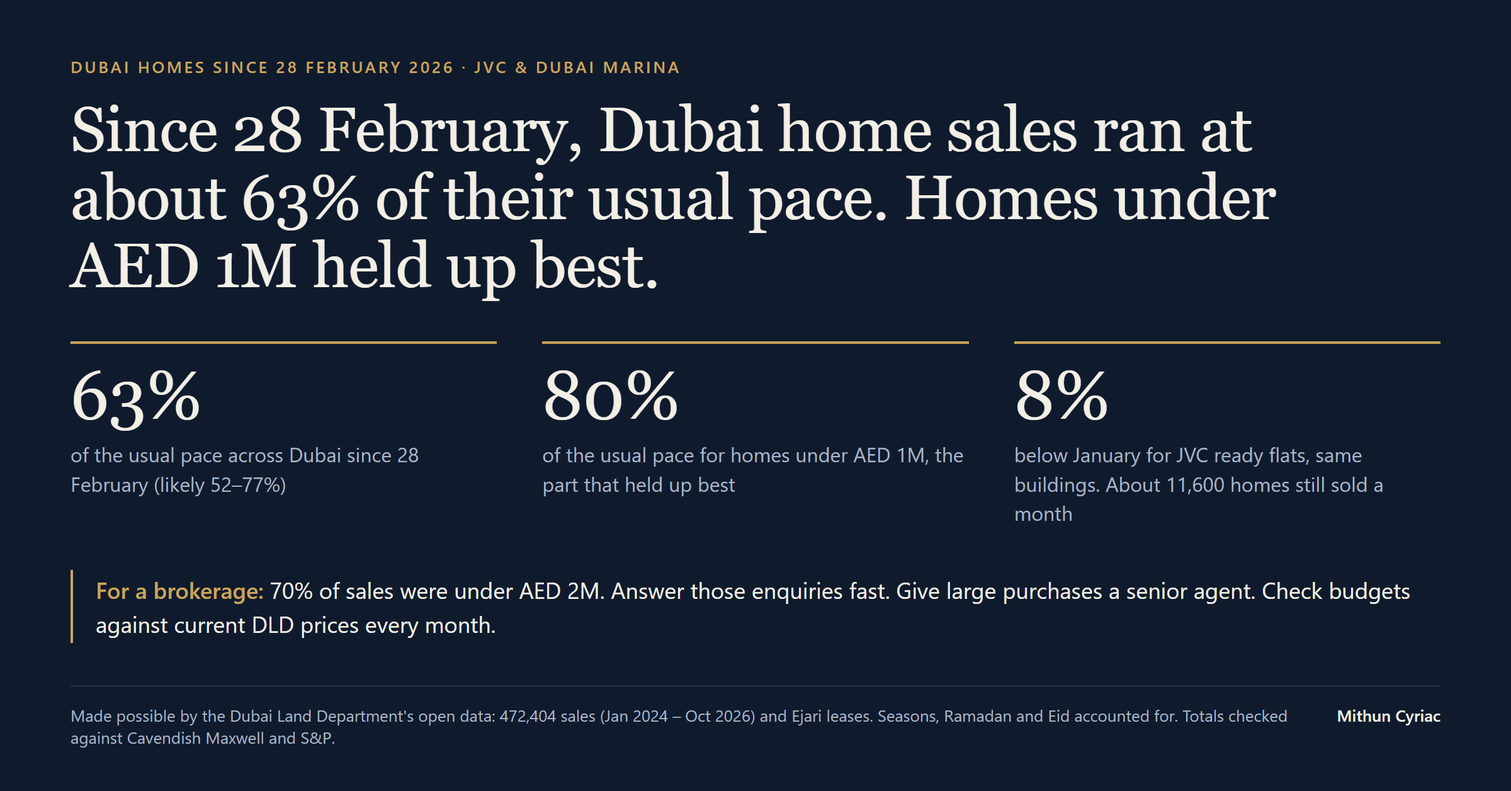
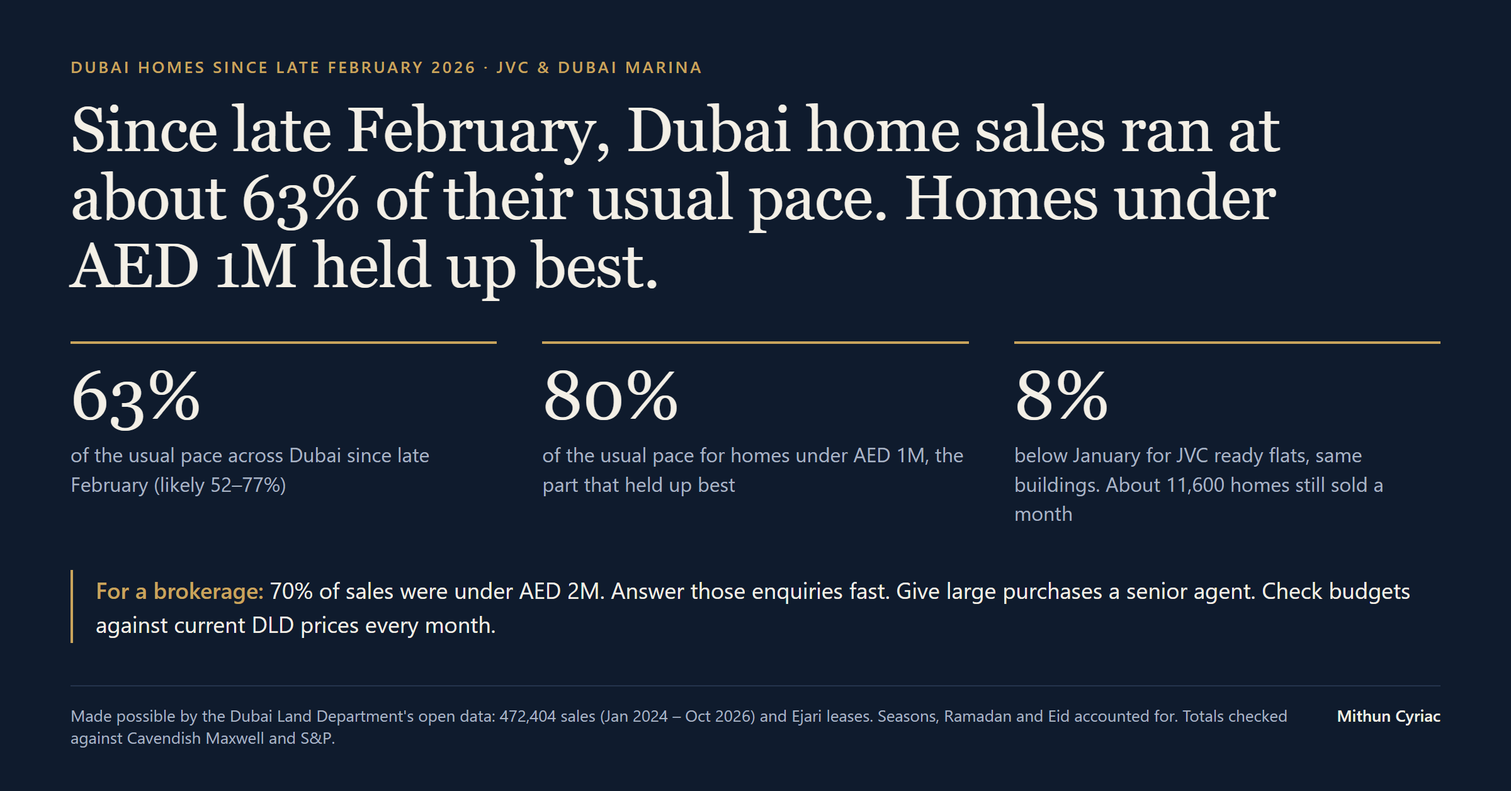
Wording: "since late February" in headlines; exact date kept in method and limits

Changed region(s): [[0.1562, 0.1242, 0.8438, 0.2174], [0.1875, 0.0621, 0.4688, 0.0932], [0.25, 0.5589, 0.2812, 0.59]]

diff --git a/docs/index.html b/docs/index.html
@@ -6,7 +6,7 @@
 <title>Dubai Lead Desk</title>
 <meta name="description" content="Who kept buying homes in Dubai since late February 2026, explained for first-time buyers, from the Dubai Land Department's open data. Data to 19 Oct 2026.">
 <meta property="og:title" content="Dubai Lead Desk: who kept buying homes in Dubai since late February">
-<meta property="og:description" content="Sales ran at about 63% of their usual pace since 28 February, holding best under AED 1M. From the Dubai Land Department's open data, to 19 Oct 2026.">
+<meta property="og:description" content="Sales ran at about 63% of their usual pace since late February, holding best under AED 1M. From the Dubai Land Department's open data, to 19 Oct 2026.">
 <meta property="og:image" content="https://mithuncyriac.github.io/dubai-lead-desk/banner-1-findings.png">
 <meta property="og:url" content="https://mithuncyriac.github.io/dubai-lead-desk/">
 <meta name="twitter:card" content="summary_large_image">
@@ -106,7 +106,7 @@ footer { margin-top: 96px; font-size: 13px; color: var(--ink-3); border-top: 1px
 <main>
 <header class="top"><span><b>Dubai Lead Desk</b> · independent analysis</span><button class="themebtn" id="theme" type="button" aria-label="Switch light or dark theme">Theme</button></header>
 
-<h1>Since 28 February, Dubai home sales have run at about 63% of their usual pace. Homes under AED 1M held up best.</h1>
+<h1>Since late February, Dubai home sales have run at about 63% of their usual pace. Homes under AED 1M held up best.</h1>
 <p class="lede">What the Dubai Land Department's open records show. Written for first-time buyers in JVC and Dubai Marina.</p>
 <span class="stamp">Data to <b>19 Oct 2026</b> · Source: Dubai Land Department open data</span>
 
@@ -133,7 +133,7 @@ footer { margin-top: 96px; font-size: 13px; color: var(--ink-3); border-top: 1px
   <h2>Who kept buying</h2>
   <div class="card">
     <h3>Homes under AED 1M were the steadiest part of the market</h3>
-    <p class="sub">Sales since 28 February as a share of the usual pace, by price. 100% is the usual pace.</p>
+    <p class="sub">Sales since late February as a share of the usual pace, by price. 100% is the usual pace.</p>
     <div class="chart" id="c-bands"></div>
     <p class="means" id="m-bands"></p>
     <details><summary>Show the numbers</summary><div class="tablewrap" id="t-bands"></div></details>
@@ -416,7 +416,7 @@ if (typeof module !== 'undefined') module.exports = DESK;
 
   // ---------- tiles ----------
   $('tiles').innerHTML = [
-    [F.pace.overall_pct + '%', `of the usual pace of home sales across Dubai since 28 February (likely ${F.pace.low_pct}–${F.pace.high_pct}%)`],
+    [F.pace.overall_pct + '%', `of the usual pace of home sales across Dubai since late February (likely ${F.pace.low_pct}–${F.pace.high_pct}%)`],
     [F.pace.under1m_pct + '%', 'of the usual pace for homes under AED 1M, the part of the market that held up best'],
     [int(Math.round(F.market.sales_per_month_mar_sep / 100) * 100), 'homes sold a month on average, March to September 2026'],
     [`${Math.round(Math.abs(F.jvc_ready_price_change_pct))}%`, 'below January for JVC ready flats, comparing the same buildings'],
@@ -555,7 +555,7 @@ if (typeof module !== 'undefined') module.exports = DESK;
     `<b>Renting out still pays.</b> Gross rental yields on JVC flats are about ${Math.round(F.market.jvc_yield_low_pct)}%.`,
   ].map(s => `<li>${s}</li>`).join('');
   $('decision-list').innerHTML = [
-    `${F.market.under2m_share_pct}% of sales since 28 February were under AED 2M. That volume suits a fast, automatic first reply.`,
+    `${F.market.under2m_share_pct}% of sales since late February were under AED 2M. That volume suits a fast, automatic first reply.`,
     `Above AED 5M, sales run at about half their usual pace. Those buyers are fewer and each purchase is large, so a senior agent should take them from the first message.`,
     `Budgets should be checked against current DLD prices, refreshed every month. With older average prices, ${F.tier_changes} of 90 test leads would land in the wrong tier.`,
   ].map(s => `<li>${s}</li>`).join('');
@@ -618,7 +618,7 @@ if (typeof module !== 'undefined') module.exports = DESK;
   const fc = F.forecast;
   $('fc-range').textContent = `${int(fc.forecast_low)} to ${int(fc.forecast_high)}`;
   $('fc-sub').innerHTML = `Expected Dubai home sales in November 2026, written down on ${new Date(F.built).toLocaleDateString('en-GB', { day: 'numeric', month: 'long', year: 'numeric' })}. The usual pattern would expect about ${int(Math.round(fc.expected_without_war / 100) * 100)}. <b>First check on ${new Date(fc.check_on).toLocaleDateString('en-GB', { day: 'numeric', month: 'long' })}</b>, and again on ${new Date(fc.recheck_on).toLocaleDateString('en-GB', { day: 'numeric', month: 'long', year: 'numeric' })}, because DLD can still add late registrations.`;
-  $('fc-why').innerHTML = `How it was made: the low end assumes the pace of recent weeks continues (${Math.round(100 + fc.recent_gap_pct)}% of usual). The high end assumes the average pace since 28 February (${Math.round(100 + fc.whole_period_gap_pct)}%). If the real number lands outside this range, the model needs another look. Archived on 2026-10-29 with DOI <a href="https://doi.org/10.5281/zenodo.23759152">10.5281/zenodo.23759152</a>, so the timing can be checked.`;
+  $('fc-why').innerHTML = `How it was made: the low end assumes the pace of recent weeks continues (${Math.round(100 + fc.recent_gap_pct)}% of usual). The high end assumes the average pace since late February (${Math.round(100 + fc.whole_period_gap_pct)}%). If the real number lands outside this range, the model needs another look. Archived on 2026-10-29 with DOI <a href="https://doi.org/10.5281/zenodo.23759152">10.5281/zenodo.23759152</a>, so the timing can be checked.`;
 
   // ---------- validation ----------
   const V = C.validation;

diff --git a/site/index.html b/site/index.html
@@ -6,7 +6,7 @@
 <title>Dubai Lead Desk</title>
 <meta name="description" content="Who kept buying homes in Dubai since late February 2026, explained for first-time buyers, from the Dubai Land Department's open data. Data to 19 Oct 2026.">
 <meta property="og:title" content="Dubai Lead Desk: who kept buying homes in Dubai since late February">
-<meta property="og:description" content="Sales ran at about 63% of their usual pace since 28 February, holding best under AED 1M. From the Dubai Land Department's open data, to 19 Oct 2026.">
+<meta property="og:description" content="Sales ran at about 63% of their usual pace since late February, holding best under AED 1M. From the Dubai Land Department's open data, to 19 Oct 2026.">
 <meta property="og:image" content="https://mithuncyriac.github.io/dubai-lead-desk/banner-1-findings.png">
 <meta property="og:url" content="https://mithuncyriac.github.io/dubai-lead-desk/">
 <meta name="twitter:card" content="summary_large_image">
@@ -106,7 +106,7 @@ footer { margin-top: 96px; font-size: 13px; color: var(--ink-3); border-top: 1px
 <main>
 <header class="top"><span><b>Dubai Lead Desk</b> · independent analysis</span><button class="themebtn" id="theme" type="button" aria-label="Switch light or dark theme">Theme</button></header>
 
-<h1>Since 28 February, Dubai home sales have run at about 63% of their usual pace. Homes under AED 1M held up best.</h1>
+<h1>Since late February, Dubai home sales have run at about 63% of their usual pace. Homes under AED 1M held up best.</h1>
 <p class="lede">What the Dubai Land Department's open records show. Written for first-time buyers in JVC and Dubai Marina.</p>
 <span class="stamp">Data to <b>19 Oct 2026</b> · Source: Dubai Land Department open data</span>
 
@@ -133,7 +133,7 @@ footer { margin-top: 96px; font-size: 13px; color: var(--ink-3); border-top: 1px
   <h2>Who kept buying</h2>
   <div class="card">
     <h3>Homes under AED 1M were the steadiest part of the market</h3>
-    <p class="sub">Sales since 28 February as a share of the usual pace, by price. 100% is the usual pace.</p>
+    <p class="sub">Sales since late February as a share of the usual pace, by price. 100% is the usual pace.</p>
     <div class="chart" id="c-bands"></div>
     <p class="means" id="m-bands"></p>
     <details><summary>Show the numbers</summary><div class="tablewrap" id="t-bands"></div></details>
@@ -416,7 +416,7 @@ if (typeof module !== 'undefined') module.exports = DESK;
 
   // ---------- tiles ----------
   $('tiles').innerHTML = [
-    [F.pace.overall_pct + '%', `of the usual pace of home sales across Dubai since 28 February (likely ${F.pace.low_pct}–${F.pace.high_pct}%)`],
+    [F.pace.overall_pct + '%', `of the usual pace of home sales across Dubai since late February (likely ${F.pace.low_pct}–${F.pace.high_pct}%)`],
     [F.pace.under1m_pct + '%', 'of the usual pace for homes under AED 1M, the part of the market that held up best'],
     [int(Math.round(F.market.sales_per_month_mar_sep / 100) * 100), 'homes sold a month on average, March to September 2026'],
     [`${Math.round(Math.abs(F.jvc_ready_price_change_pct))}%`, 'below January for JVC ready flats, comparing the same buildings'],
@@ -555,7 +555,7 @@ if (typeof module !== 'undefined') module.exports = DESK;
     `<b>Renting out still pays.</b> Gross rental yields on JVC flats are about ${Math.round(F.market.jvc_yield_low_pct)}%.`,
   ].map(s => `<li>${s}</li>`).join('');
   $('decision-list').innerHTML = [
-    `${F.market.under2m_share_pct}% of sales since 28 February were under AED 2M. That volume suits a fast, automatic first reply.`,
+    `${F.market.under2m_share_pct}% of sales since late February were under AED 2M. That volume suits a fast, automatic first reply.`,
     `Above AED 5M, sales run at about half their usual pace. Those buyers are fewer and each purchase is large, so a senior agent should take them from the first message.`,
     `Budgets should be checked against current DLD prices, refreshed every month. With older average prices, ${F.tier_changes} of 90 test leads would land in the wrong tier.`,
   ].map(s => `<li>${s}</li>`).join('');
@@ -618,7 +618,7 @@ if (typeof module !== 'undefined') module.exports = DESK;
   const fc = F.forecast;
   $('fc-range').textContent = `${int(fc.forecast_low)} to ${int(fc.forecast_high)}`;
   $('fc-sub').innerHTML = `Expected Dubai home sales in November 2026, written down on ${new Date(F.built).toLocaleDateString('en-GB', { day: 'numeric', month: 'long', year: 'numeric' })}. The usual pattern would expect about ${int(Math.round(fc.expected_without_war / 100) * 100)}. <b>First check on ${new Date(fc.check_on).toLocaleDateString('en-GB', { day: 'numeric', month: 'long' })}</b>, and again on ${new Date(fc.recheck_on).toLocaleDateString('en-GB', { day: 'numeric', month: 'long', year: 'numeric' })}, because DLD can still add late registrations.`;
-  $('fc-why').innerHTML = `How it was made: the low end assumes the pace of recent weeks continues (${Math.round(100 + fc.recent_gap_pct)}% of usual). The high end assumes the average pace since 28 February (${Math.round(100 + fc.whole_period_gap_pct)}%). If the real number lands outside this range, the model needs another look. Archived on 2026-10-29 with DOI <a href="https://doi.org/10.5281/zenodo.23759152">10.5281/zenodo.23759152</a>, so the timing can be checked.`;
+  $('fc-why').innerHTML = `How it was made: the low end assumes the pace of recent weeks continues (${Math.round(100 + fc.recent_gap_pct)}% of usual). The high end assumes the average pace since late February (${Math.round(100 + fc.whole_period_gap_pct)}%). If the real number lands outside this range, the model needs another look. Archived on 2026-10-29 with DOI <a href="https://doi.org/10.5281/zenodo.23759152">10.5281/zenodo.23759152</a>, so the timing can be checked.`;
 
   // ---------- validation ----------
   const V = C.validation;

diff --git a/site/template.html b/site/template.html
@@ -6,7 +6,7 @@
 <title>Dubai Lead Desk</title>
 <meta name="description" content="Who kept buying homes in Dubai since late February 2026, explained for first-time buyers, from the Dubai Land Department's open data. Data to __DATA_TO__.">
 <meta property="og:title" content="Dubai Lead Desk: who kept buying homes in Dubai since late February">
-<meta property="og:description" content="Sales ran at about 63% of their usual pace since 28 February, holding best under AED 1M. From the Dubai Land Department's open data, to __DATA_TO__.">
+<meta property="og:description" content="Sales ran at about 63% of their usual pace since late February, holding best under AED 1M. From the Dubai Land Department's open data, to __DATA_TO__.">
 <meta property="og:image" content="__PAGES__banner-1-findings.png">
 <meta property="og:url" content="__PAGES__">
 <meta name="twitter:card" content="summary_large_image">
@@ -104,7 +104,7 @@ __ANALYTICS__
 <main>
 <header class="top"><span><b>Dubai Lead Desk</b> · independent analysis</span><button class="themebtn" id="theme" type="button" aria-label="Switch light or dark theme">Theme</button></header>
 
-<h1>Since 28 February, Dubai home sales have run at about 63% of their usual pace. Homes under AED 1M held up best.</h1>
+<h1>Since late February, Dubai home sales have run at about 63% of their usual pace. Homes under AED 1M held up best.</h1>
 <p class="lede">What the Dubai Land Department's open records show. Written for first-time buyers in JVC and Dubai Marina.</p>
 <span class="stamp">Data to <b>__DATA_TO__</b> · Source: Dubai Land Department open data</span>
 
@@ -131,7 +131,7 @@ __ANALYTICS__
   <h2>Who kept buying</h2>
   <div class="card">
     <h3>Homes under AED 1M were the steadiest part of the market</h3>
-    <p class="sub">Sales since 28 February as a share of the usual pace, by price. 100% is the usual pace.</p>
+    <p class="sub">Sales since late February as a share of the usual pace, by price. 100% is the usual pace.</p>
     <div class="chart" id="c-bands"></div>
     <p class="means" id="m-bands"></p>
     <details><summary>Show the numbers</summary><div class="tablewrap" id="t-bands"></div></details>
@@ -290,7 +290,7 @@ __DESK__
 
   // ---------- tiles ----------
   $('tiles').innerHTML = [
-    [F.pace.overall_pct + '%', `of the usual pace of home sales across Dubai since 28 February (likely ${F.pace.low_pct}–${F.pace.high_pct}%)`],
+    [F.pace.overall_pct + '%', `of the usual pace of home sales across Dubai since late February (likely ${F.pace.low_pct}–${F.pace.high_pct}%)`],
     [F.pace.under1m_pct + '%', 'of the usual pace for homes under AED 1M, the part of the market that held up best'],
     [int(Math.round(F.market.sales_per_month_mar_sep / 100) * 100), 'homes sold a month on average, March to September 2026'],
     [`${Math.round(Math.abs(F.jvc_ready_price_change_pct))}%`, 'below January for JVC ready flats, comparing the same buildings'],
@@ -429,7 +429,7 @@ __DESK__
     `<b>Renting out still pays.</b> Gross rental yields on JVC flats are about ${Math.round(F.market.jvc_yield_low_pct)}%.`,
   ].map(s => `<li>${s}</li>`).join('');
   $('decision-list').innerHTML = [
-    `${F.market.under2m_share_pct}% of sales since 28 February were under AED 2M. That volume suits a fast, automatic first reply.`,
+    `${F.market.under2m_share_pct}% of sales since late February were under AED 2M. That volume suits a fast, automatic first reply.`,
     `Above AED 5M, sales run at about half their usual pace. Those buyers are fewer and each purchase is large, so a senior agent should take them from the first message.`,
     `Budgets should be checked against current DLD prices, refreshed every month. With older average prices, ${F.tier_changes} of 90 test leads would land in the wrong tier.`,
   ].map(s => `<li>${s}</li>`).join('');
@@ -492,7 +492,7 @@ __DESK__
   const fc = F.forecast;
   $('fc-range').textContent = `${int(fc.forecast_low)} to ${int(fc.forecast_high)}`;
   $('fc-sub').innerHTML = `Expected Dubai home sales in November 2026, written down on ${new Date(F.built).toLocaleDateString('en-GB', { day: 'numeric', month: 'long', year: 'numeric' })}. The usual pattern would expect about ${int(Math.round(fc.expected_without_war / 100) * 100)}. <b>First check on ${new Date(fc.check_on).toLocaleDateString('en-GB', { day: 'numeric', month: 'long' })}</b>, and again on ${new Date(fc.recheck_on).toLocaleDateString('en-GB', { day: 'numeric', month: 'long', year: 'numeric' })}, because DLD can still add late registrations.`;
-  $('fc-why').innerHTML = `How it was made: the low end assumes the pace of recent weeks continues (${Math.round(100 + fc.recent_gap_pct)}% of usual). The high end assumes the average pace since 28 February (${Math.round(100 + fc.whole_period_gap_pct)}%). If the real number lands outside this range, the model needs another look. Archived on __ARCHIVED_ON__ with DOI <a href="https://doi.org/__DOI__">__DOI__</a>, so the timing can be checked.`;
+  $('fc-why').innerHTML = `How it was made: the low end assumes the pace of recent weeks continues (${Math.round(100 + fc.recent_gap_pct)}% of usual). The high end assumes the average pace since late February (${Math.round(100 + fc.whole_period_gap_pct)}%). If the real number lands outside this range, the model needs another look. Archived on __ARCHIVED_ON__ with DOI <a href="https://doi.org/__DOI__">__DOI__</a>, so the timing can be checked.`;
 
   // ---------- validation ----------
   const V = C.validation;

diff --git a/docs/story/index.html b/docs/story/index.html
@@ -29,7 +29,7 @@ blockquote strong { color: #0F1B2D; }
 <h2>About two-thirds of the usual pace</h2>
 <p>From March to September, about 11,600 homes sold in Dubai each month. In the third quarter alone there were 34,047 sales worth AED 67.9 billion.</p>
 <p>To judge the pace fairly, you can't just compare this year with last. Sales move with the seasons, with Ramadan and Eid, and with the day of the week. So I fitted a model to the usual pattern, from January 2024 to February 2026. Then I compared each month since with what that pattern would expect.</p>
-<p>Since 28 February, 87,052 sales were registered, against about 137,260 in the usual pattern. That's about two-thirds of the usual pace, likely somewhere between 52% and 77%. The pace was 68% in March and 54% in September.</p>
+<p>Since late February, 87,052 sales were registered, against about 137,260 in the usual pattern. That's about two-thirds of the usual pace, likely somewhere between 52% and 77%. The pace was 68% in March and 54% in September.</p>
 <figure><img src="slide-2.png" alt="carousel slide 2, monthly sales against the usual pattern" width="1080" height="1350"></figure>
 <h2>Everyday buyers were the steadiest</h2>
 <p>Split the same sales by price and the picture gets clearer:</p>
@@ -45,7 +45,7 @@ blockquote strong { color: #0F1B2D; }
 <p>A simple average price can mislead. If fewer large apartments sell, the average goes down even when nothing got cheaper. So I compared sales within the same buildings over time. On that basis, ready flats in JVC are about 8% below their January level, and in Dubai Marina about 5%.</p>
 <p>Asking prices haven't fully caught up. The listings I checked on Bayut and Property Finder asked about 7% more than recent DLD sales in JVC. In Dubai Marina it was about 9%.</p>
 <h2>Renting out still pays</h2>
-<p>I matched Ejari leases with DLD sale prices since 28 February. A JVC flat earns a gross rental yield of about 7% a year. In Dubai Marina it's between 5% and 7%.</p>
+<p>I matched Ejari leases with DLD sale prices since late February. A JVC flat earns a gross rental yield of about 7% a year. In Dubai Marina it's between 5% and 7%.</p>
 <h2>A lot of new supply is on the way</h2>
 <p>JVC has 19,756 flats that were sold off-plan since 2024 and haven't been handed over yet. At the current pace of 767 sales a month, that's about 26 months of sales. Buyers can take their time.</p>
 <h2>What this means if you're buying your first home</h2>

diff --git a/scripts/build_posts.py b/scripts/build_posts.py
@@ -21,7 +21,7 @@ months = round(F["jvc_pipeline_months"])
 per_month = n(round(M["sales_per_month_mar_sep"], -2))
 yield_jvc = round(M["jvc_yield_low_pct"])
 
-linkedin = f"""Since 28 February, Dubai home sales have run at about {P['overall_pct']}% of their usual pace (likely {P['low_pct']}–{P['high_pct']}%). "Usual" means what past years' patterns predict. That is still about {per_month} homes a month.
+linkedin = f"""Since late February, Dubai home sales have run at about {P['overall_pct']}% of their usual pace (likely {P['low_pct']}–{P['high_pct']}%). "Usual" means what past years' patterns predict. That is still about {per_month} homes a month.
 
 The pace held best at the lower end. Homes under AED 1M kept about {P['under1m_pct']}% of their usual pace; above AED 5M, about {P['over5m_pct']}%. In the same buildings, JVC ready flats are about {a(F['jvc_ready_price_change_pct'])}% below January. Asking prices sit about {round(F['jvc_asking_premium_pct'])}% above recent sales.
 
@@ -40,7 +40,7 @@ comment = f"""Dashboard (one page, works on a phone): {PAGES}
 Code, data and every check: {REPO}
 The longer write-up on Medium: [paste the Medium link here]
 
-About the slides: eight pages of charts from DLD data. They show the pace of sales by month and by price, and prices in the same buildings. Then new homes to come in JVC, the lead desk and the November forecast.
+About the slides: eight pages of charts from DLD data. They show the pace of sales by month and by price, and prices in the same buildings. Then new homes to come in JVC, the tool that answers buyer enquiries, and the November forecast.
 
 Source: Dubai Land Department open data, to {F['data_to_label']}. Independent analysis, not financial advice.
 """
@@ -63,7 +63,7 @@ From March to September, about {per_month} homes sold in Dubai each month. In th
 
 To judge the pace fairly, you can't just compare this year with last. Sales move with the seasons, with Ramadan and Eid, and with the day of the week. So I fitted a model to the usual pattern, from January 2024 to February 2026. Then I compared each month since with what that pattern would expect.
 
-Since 28 February, {n(F['sales_actual_post'])} sales were registered, against about {n(F['sales_expected_post'])} in the usual pattern. That's about two-thirds of the usual pace, likely somewhere between {P['low_pct']}% and {P['high_pct']}%. The pace was {P['march_pct']}% in March and {P['september_pct']}% in September.
+Since late February, {n(F['sales_actual_post'])} sales were registered, against about {n(F['sales_expected_post'])} in the usual pattern. That's about two-thirds of the usual pace, likely somewhere between {P['low_pct']}% and {P['high_pct']}%. The pace was {P['march_pct']}% in March and {P['september_pct']}% in September.
 
 [Image: carousel slide 2, monthly sales against the usual pattern]
 
@@ -88,7 +88,7 @@ Asking prices haven't fully caught up. The listings I checked on Bayut and Prope
 
 ## Renting out still pays
 
-I matched Ejari leases with DLD sale prices since 28 February. A JVC flat earns a gross rental yield of about {yield_jvc}% a year. In Dubai Marina it's between {round(M['marina_yield_low_pct'])}% and {round(M['marina_yield_high_pct'])}%.
+I matched Ejari leases with DLD sale prices since late February. A JVC flat earns a gross rental yield of about {yield_jvc}% a year. In Dubai Marina it's between {round(M['marina_yield_low_pct'])}% and {round(M['marina_yield_high_pct'])}%.
 
 ## A lot of new supply is on the way
 

diff --git a/scripts/build_readme.py b/scripts/build_readme.py
@@ -42,7 +42,7 @@ A brokerage gets enquiries every day. It has to decide which ones get a fast rep
 ## What the data shows
 
 - About {n(round(MK['sales_per_month_mar_sep'], -2))} homes sold a month from March to September. The third quarter had {n(MK['q3_sales'])} sales worth AED {MK['q3_value_aed_bn']} billion.
-- Since 28 February, sales ran at about two-thirds of the usual pace: {n(F['sales_actual_post'])} registered against about {n(F['sales_expected_post'])}. The likely range is {P['low_pct']}% to {P['high_pct']}%. The pace was {P['march_pct']}% in March and {P['september_pct']}% in September.
+- Since late February, sales ran at about two-thirds of the usual pace: {n(F['sales_actual_post'])} registered against about {n(F['sales_expected_post'])}. The likely range is {P['low_pct']}% to {P['high_pct']}%. The pace was {P['march_pct']}% in March and {P['september_pct']}% in September.
 - Homes under AED 1M were the steadiest part of the market, at about {P['under1m_pct']}% of their usual pace. Above AED 5M, about {P['over5m_pct']}%.
 - Prices moved less than sales. Comparing the same buildings, JVC ready flats are about {abs(round(F['jvc_ready_price_change_pct']))}% below January and Dubai Marina about {abs(round(F['marina_ready_price_change_pct']))}%.
 - Asking prices on the portals sit about {round(F['jvc_asking_premium_pct'])}% above recent sales in JVC and {round(F['marina_asking_premium_pct'])}% in Dubai Marina.
@@ -88,7 +88,7 @@ My totals against figures other people published from the same DLD records: {ver
 
 **Two checks anyone can run.** One is a one-minute comprehension test with five people outside property ([proof/comprehension_test.md](proof/comprehension_test.md)). The other is a sheet for one agent to sort 20 real enquiries blind against the desk ([proof/agent_blind_test.md](proof/agent_blind_test.md)). Results go here once they're done.
 
-**A forecast you can check.** Dubai home sales in November 2026 should land between **{n(FC['forecast_low'])} and {n(FC['forecast_high'])}**. The usual pattern would expect about {n(round(FC['expected_without_war'], -2))}. The low end assumes the pace of recent weeks continues ({round(100 + FC['recent_gap_pct'])}% of usual). The high end assumes the average pace since 28 February ({round(100 + FC['whole_period_gap_pct'])}%). I'll check it against DLD's November records on {check_on}, and again on {date.fromisoformat(FC['recheck_on']).day} {date.fromisoformat(FC['recheck_on']):%B %Y}, because DLD can still add late registrations. If it lands outside the range, the model needs another look.
+**A forecast you can check.** Dubai home sales in November 2026 should land between **{n(FC['forecast_low'])} and {n(FC['forecast_high'])}**. The usual pattern would expect about {n(round(FC['expected_without_war'], -2))}. The low end assumes the pace of recent weeks continues ({round(100 + FC['recent_gap_pct'])}% of usual). The high end assumes the average pace since late February ({round(100 + FC['whole_period_gap_pct'])}%). I'll check it against DLD's November records on {check_on}, and again on {date.fromisoformat(FC['recheck_on']).day} {date.fromisoformat(FC['recheck_on']):%B %Y}, because DLD can still add late registrations. If it lands outside the range, the model needs another look.
 
 ## Data
 

diff --git a/scripts/build_carousel.py b/scripts/build_carousel.py
@@ -61,7 +61,7 @@ bands = [(b["band"], round(100 + b["gap"]), "") for b in C["bands"]]
 slides = [
     f"""<section class="s cover"><div class="top"><span class="k">Dubai Lead Desk</span><span class="pg">1 / {TOTAL}</span></div>
 <h1>Who kept buying homes in Dubai since late February?</h1>
-<div class="hero"><div><div class="big">{P['overall_pct']}%</div><p>of the usual pace of home sales across Dubai since 28 February (likely {P['low_pct']}–{P['high_pct']}%)</p></div>
+<div class="hero"><div><div class="big">{P['overall_pct']}%</div><p>of the usual pace of home sales across Dubai since late February (likely {P['low_pct']}–{P['high_pct']}%)</p></div>
 <div><div class="big">{P['under1m_pct']}%</div><p>of the usual pace for homes under AED 1M, the part that held up best</p></div></div>
 <p class="lede">From {n(F['sales_read'])} Dubai Land Department sales records. Swipe for what it means.</p>
 <div class="foot">Independent analysis by Mithun Cyriac · not financial advice</div></section>""",
@@ -69,7 +69,7 @@ slides = [
           f'<div class="legend"><span><i style="background:{BLUE}"></i>sales registered</span><span><i style="background:{REF}"></i>usual pattern</span></div>{monthly_svg()}'
           f'<p class="note">Sales ran at {P["march_pct"]}% of the usual pace in March and {P["september_pct"]}% in September. *October covers 1–19 Oct.</p>'),
     slide(3, "Who kept buying", "Homes under AED 1M were the steadiest part of the market",
-          '<p class="sub">Sales since 28 Feb as a share of the usual pace</p>' + bars(bands, BLUE, ref=100, first=HL) +
+          '<p class="sub">Sales since late February as a share of the usual pace</p>' + bars(bands, BLUE, ref=100, first=HL) +
           f'<p class="note">Under AED 1M, homes still sell at about {P["under1m_pct"]}% of the usual pace. Above AED 5M, buyers have more time: about {P["over5m_pct"]}%.</p>'),
     slide(4, "Prices", "Same-building prices are 5–8% below January",
           f'<div class="pair"><div><div class="big">{a(F["jvc_ready_price_change_pct"])}%</div><p>below January for JVC ready flats, same buildings</p></div>'
@@ -77,7 +77,7 @@ slides = [
           f'<p class="note">Asking prices sit about {round(F["jvc_asking_premium_pct"])}% above recent sales in JVC and {round(F["marina_asking_premium_pct"])}% in Dubai Marina. Start from sold prices. A JVC flat still earns about {round(MK["jvc_yield_low_pct"])}% a year in gross rent.</p>'),
     slide(5, "Supply", f"JVC has about {round(F['jvc_pipeline_months'])} months of off-plan supply to come",
           f'<div class="pair"><div><div class="big">{n(F["jvc_pipeline_units"])}</div><p>flats sold off-plan since 2024, not yet handed over</p></div>'
-          f'<div><div class="big">{n(F["jvc_sales_per_month"])}</div><p>JVC sales a month since 28 February</p></div></div>'
+          f'<div><div class="big">{n(F["jvc_sales_per_month"])}</div><p>JVC sales a month since late February</p></div></div>'
           '<p class="note">That is a lot of new supply, so there is time to compare ready and off-plan.</p>'),
     slide(6, "The lead desk", "A free lead desk for the everyday enquiries",
           '<ol class="steps"><li>An enquiry arrives by form or message</li><li>It reads area, bedrooms, budget, timing and payment</li>'

diff --git a/README.md b/README.md
@@ -16,7 +16,7 @@ A brokerage gets enquiries every day. It has to decide which ones get a fast rep
 ## What the data shows
 
 - About 11,600 homes sold a month from March to September. The third quarter had 34,047 sales worth AED 67.9 billion.
-- Since 28 February, sales ran at about two-thirds of the usual pace: 87,052 registered against about 137,260. The likely range is 52% to 77%. The pace was 68% in March and 54% in September.
+- Since late February, sales ran at about two-thirds of the usual pace: 87,052 registered against about 137,260. The likely range is 52% to 77%. The pace was 68% in March and 54% in September.
 - Homes under AED 1M were the steadiest part of the market, at about 80% of their usual pace. Above AED 5M, about 48%.
 - Prices moved less than sales. Comparing the same buildings, JVC ready flats are about 8% below January and Dubai Marina about 5%.
 - Asking prices on the portals sit about 7% above recent sales in JVC and 9% in Dubai Marina.
@@ -73,7 +73,7 @@ My totals against figures other people published from the same DLD records: 6 ma
 
 **Two checks anyone can run.** One is a one-minute comprehension test with five people outside property ([proof/comprehension_test.md](proof/comprehension_test.md)). The other is a sheet for one agent to sort 20 real enquiries blind against the desk ([proof/agent_blind_test.md](proof/agent_blind_test.md)). Results go here once they're done.
 
-**A forecast you can check.** Dubai home sales in November 2026 should land between **9,800 and 11,600**. The usual pattern would expect about 18,400. The low end assumes the pace of recent weeks continues (53% of usual). The high end assumes the average pace since 28 February (63%). I'll check it against DLD's November records on 7 December 2026, and again on 7 January 2027, because DLD can still add late registrations. If it lands outside the range, the model needs another look.
+**A forecast you can check.** Dubai home sales in November 2026 should land between **9,800 and 11,600**. The usual pattern would expect about 18,400. The low end assumes the pace of recent weeks continues (53% of usual). The high end assumes the average pace since late February (63%). I'll check it against DLD's November records on 7 December 2026, and again on 7 January 2027, because DLD can still add late registrations. If it lands outside the range, the model needs another look.
 
 ## Data
 
